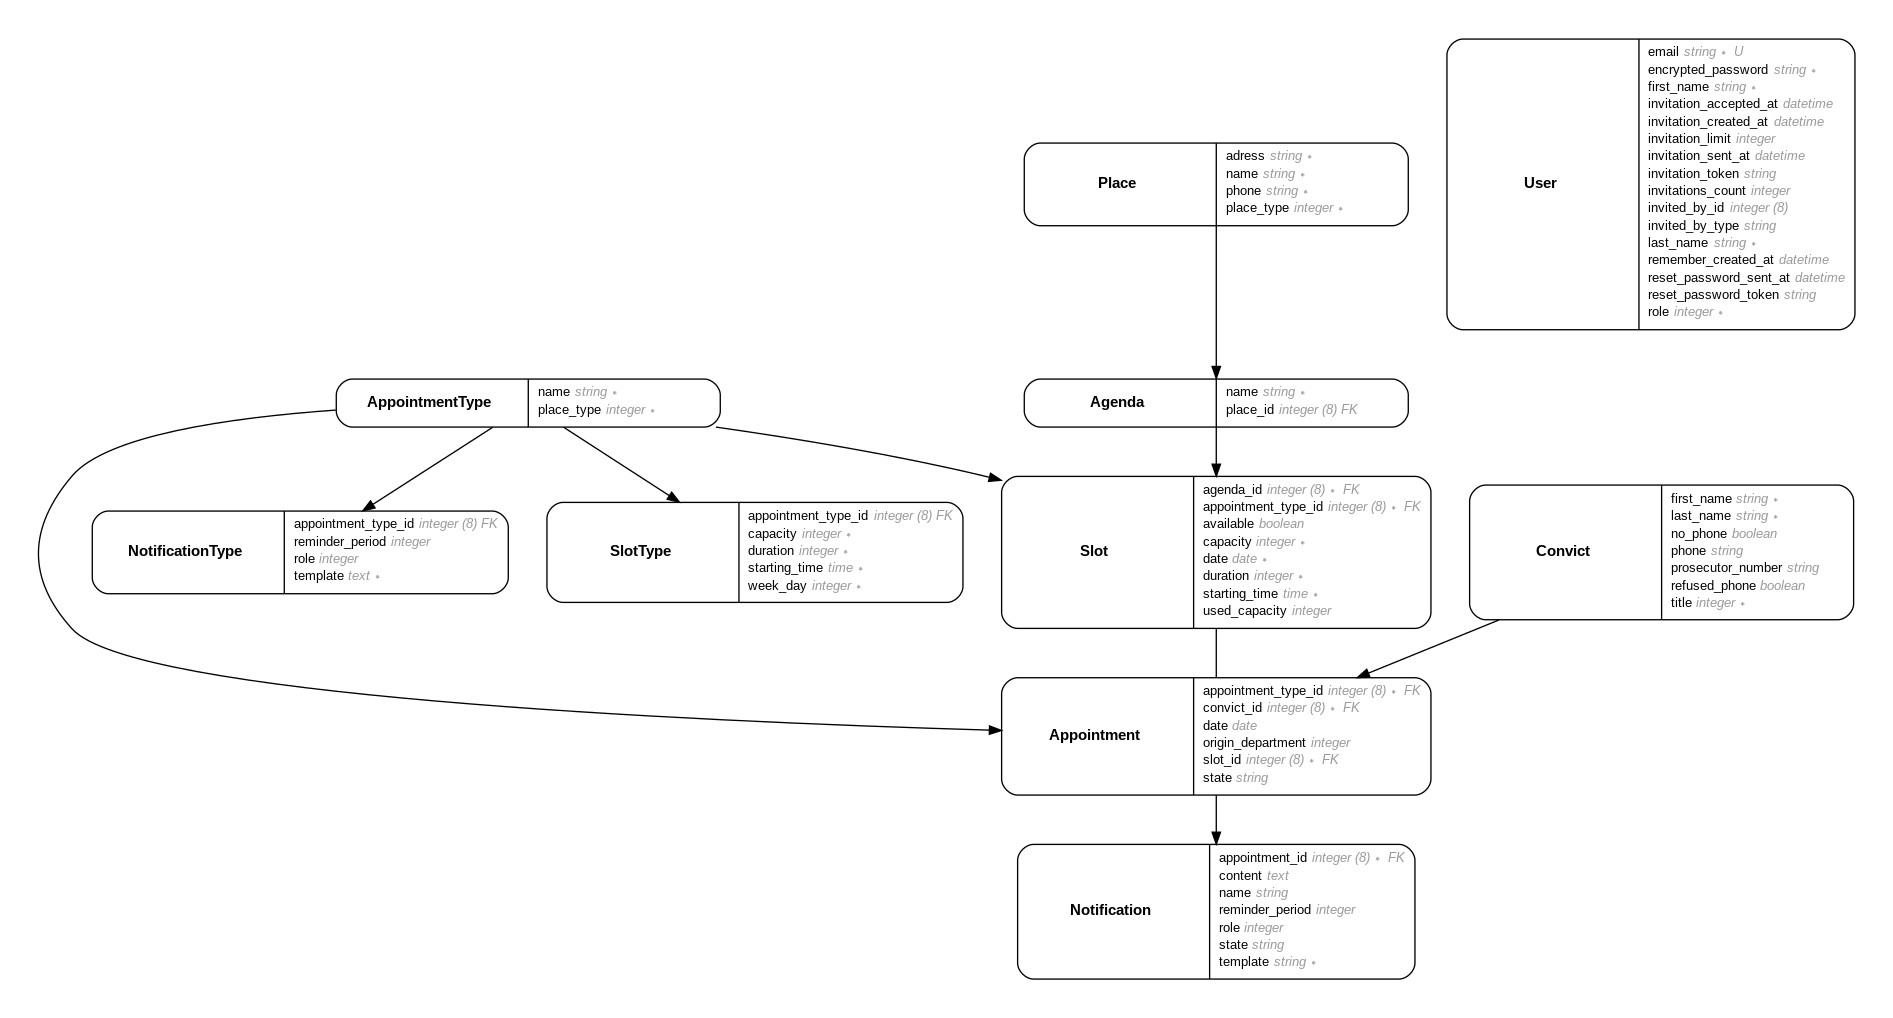
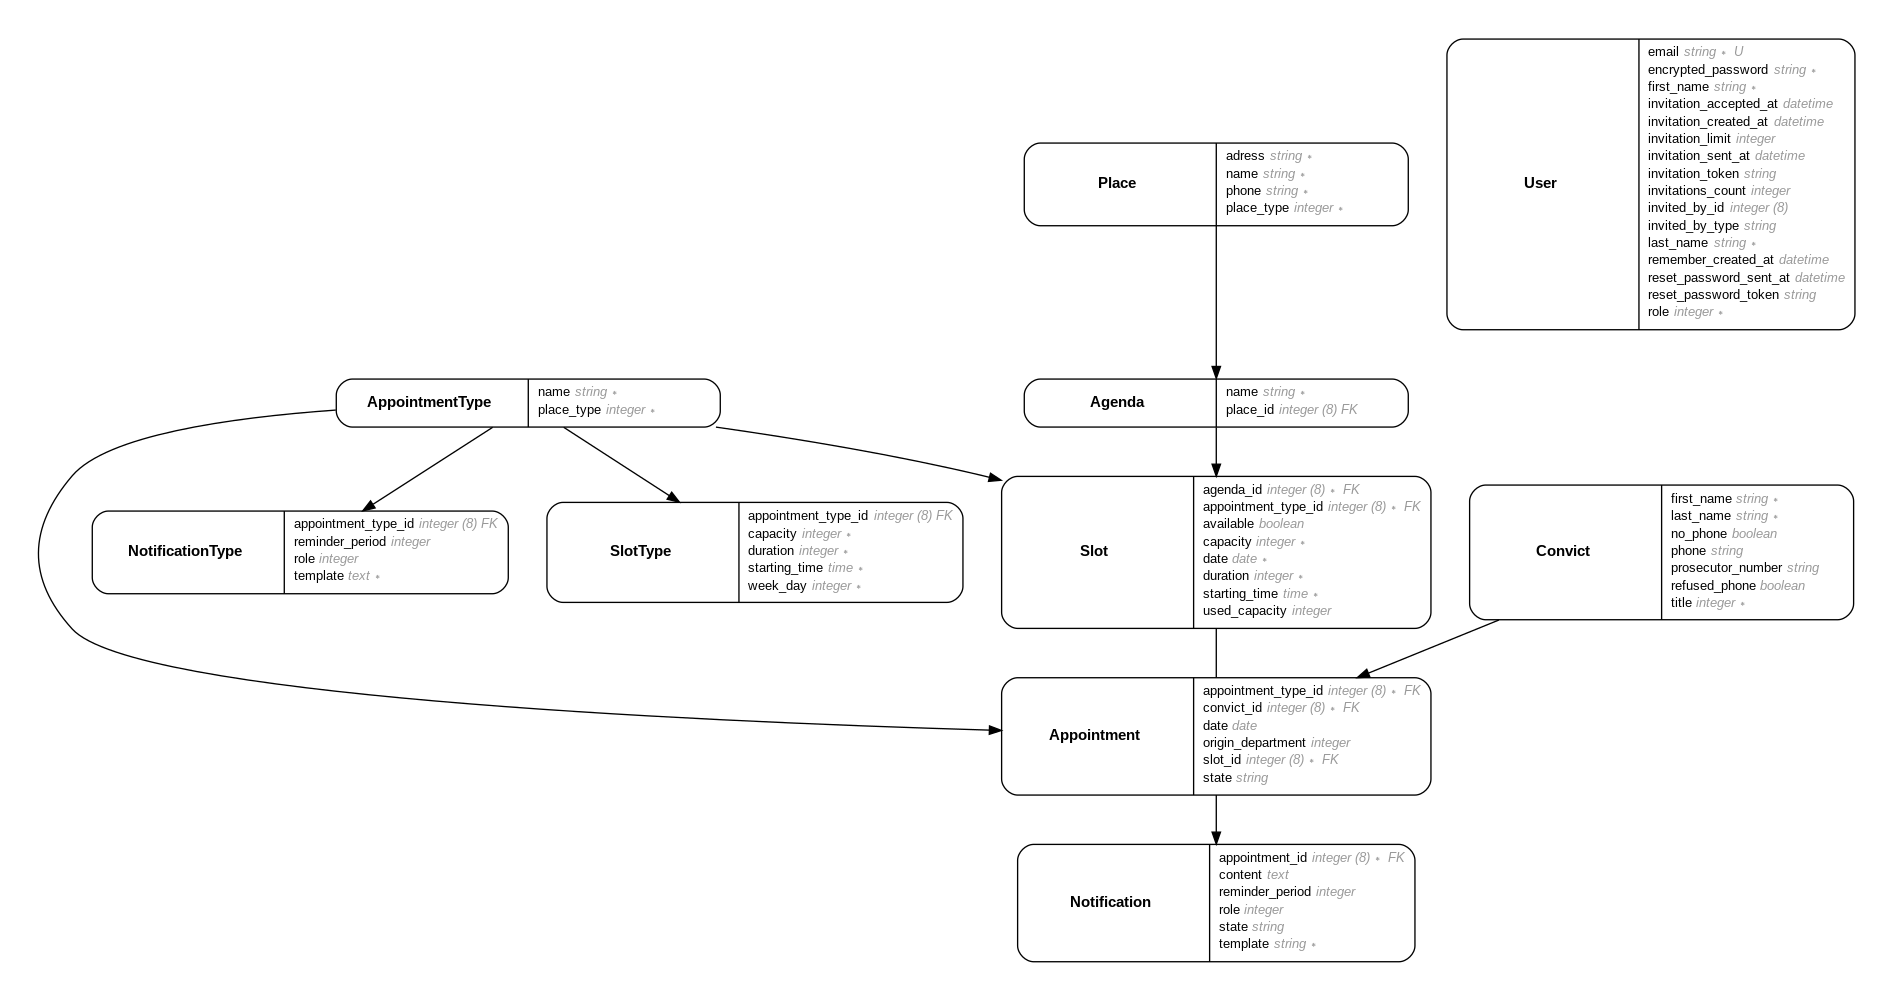
remove useless table column

diff --git a/db/schema.rb b/db/schema.rb
@@ -10,7 +10,7 @@
 #
 # It's strongly recommended that you check this file into your version control system.
 
-ActiveRecord::Schema.define(version: 2021_08_10_144320) do
+ActiveRecord::Schema.define(version: 2021_08_11_182929) do
 
   # These are extensions that must be enabled in order to support this database
   enable_extension "plpgsql"
@@ -67,7 +67,6 @@ ActiveRecord::Schema.define(version: 2021_08_10_144320) do
   end
 
   create_table "notifications", force: :cascade do |t|
-    t.string "name"
     t.text "content"
     t.datetime "created_at", precision: 6, null: false
     t.datetime "updated_at", precision: 6, null: false

diff --git a/db/migrate/20210811182929_remove_name_from_notifications.rb b/db/migrate/20210811182929_remove_name_from_notifications.rb
@@ -1,0 +1,5 @@
+class RemoveNameFromNotifications < ActiveRecord::Migration[6.1]
+  def change
+    remove_column :notifications, :name, :string
+  end
+end
